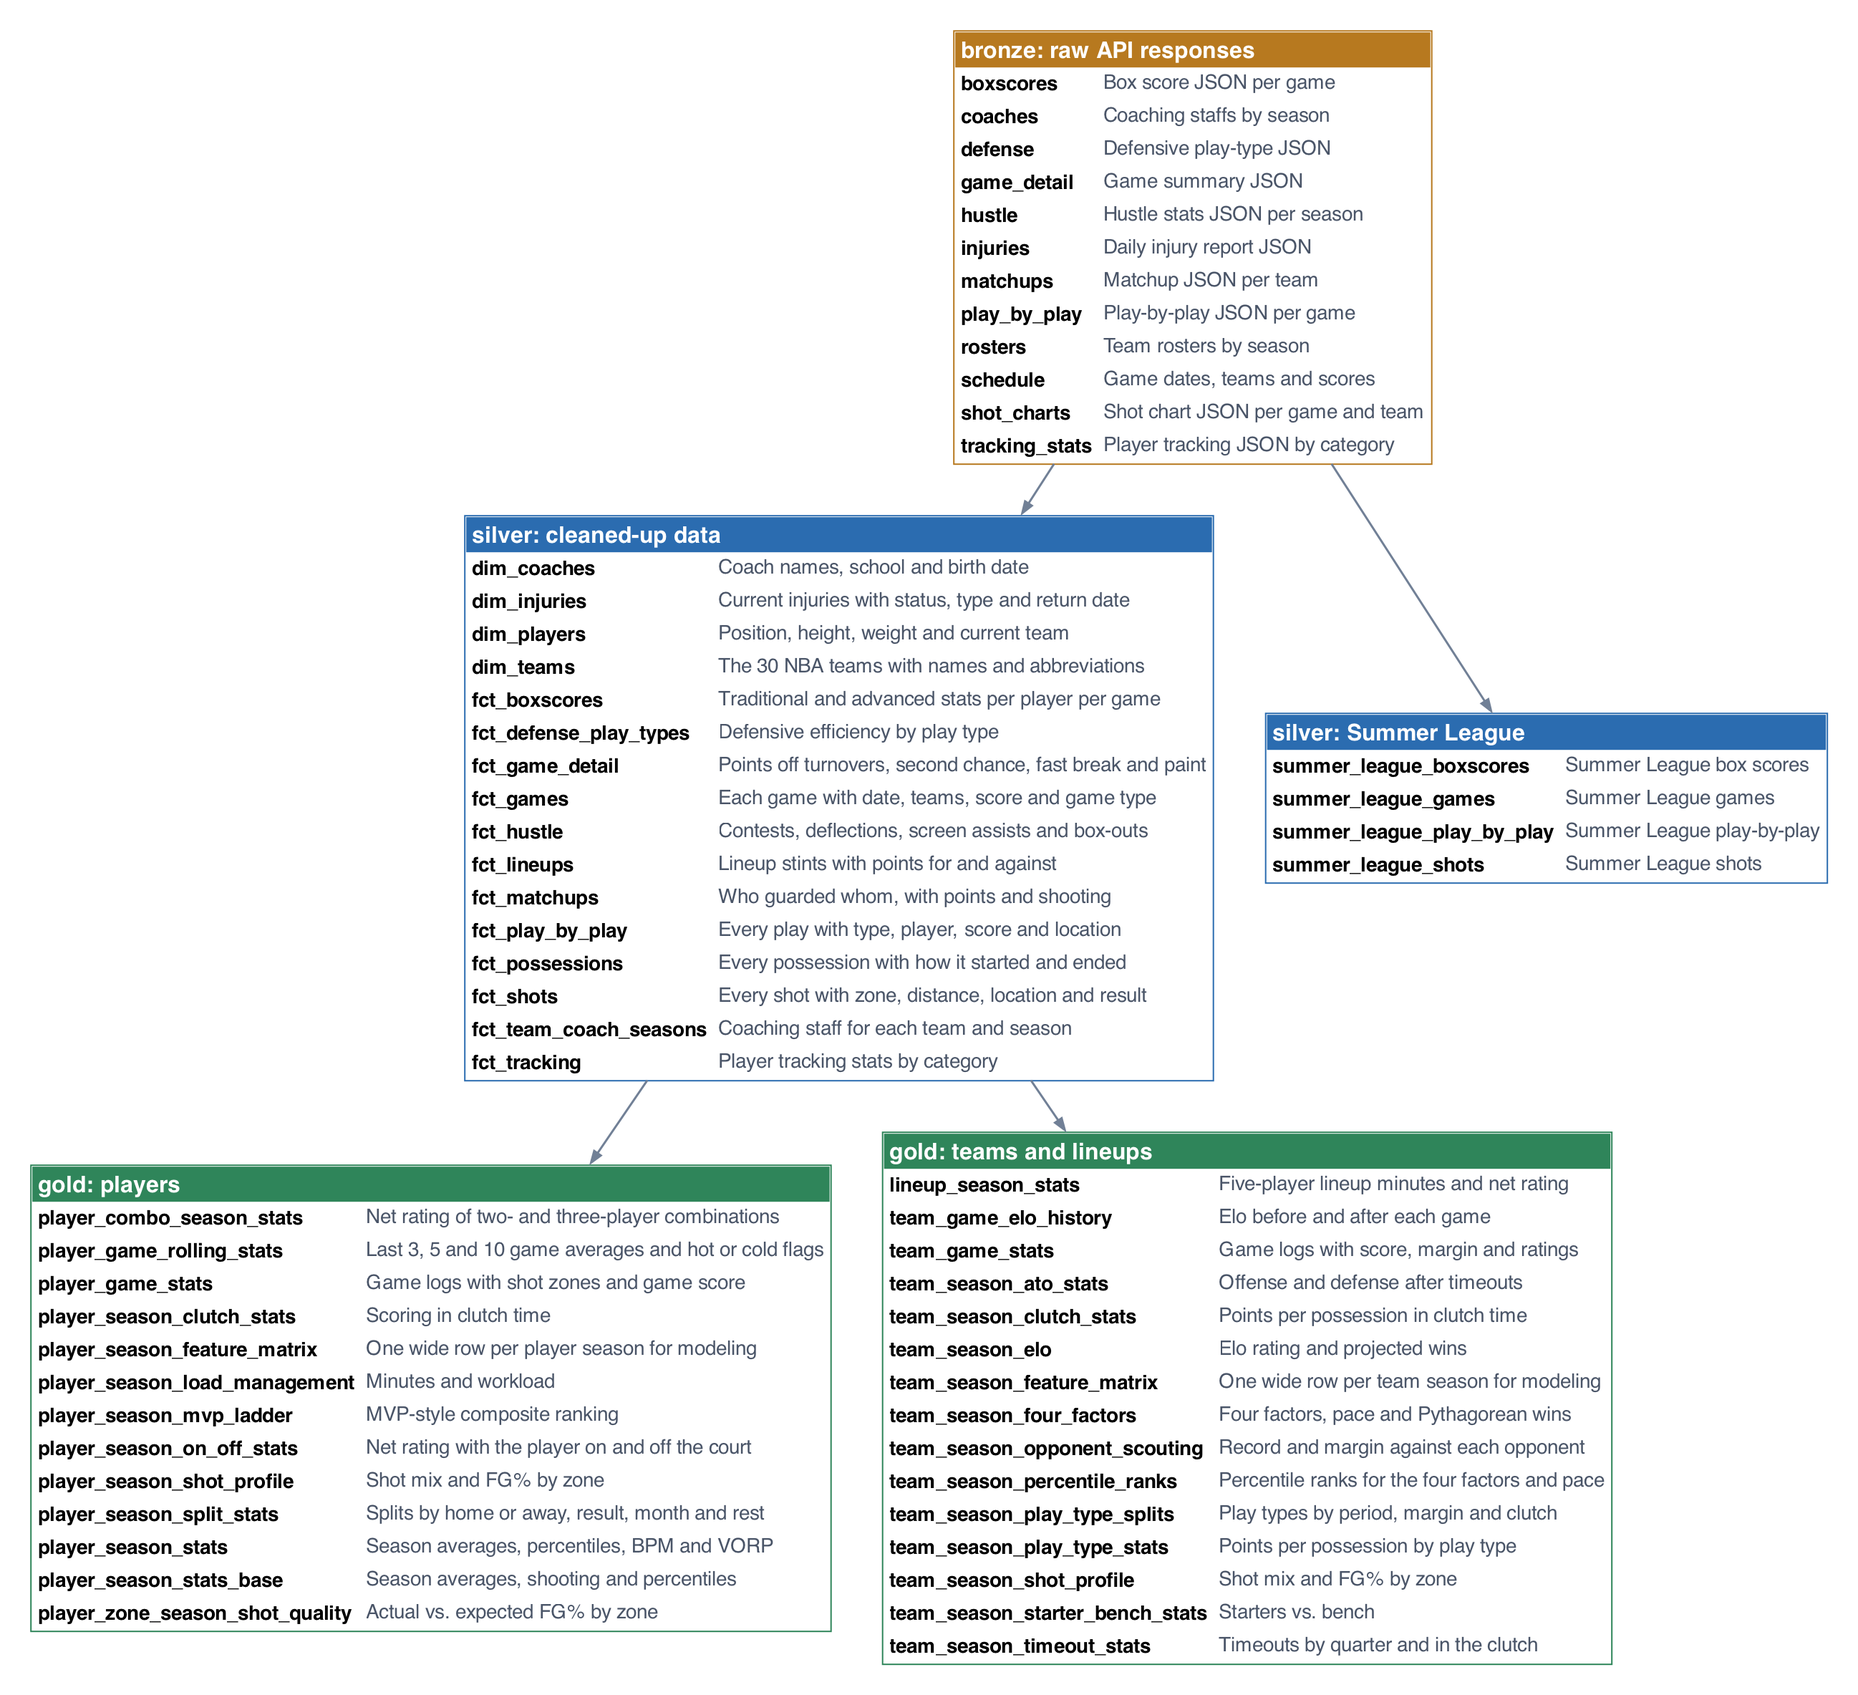
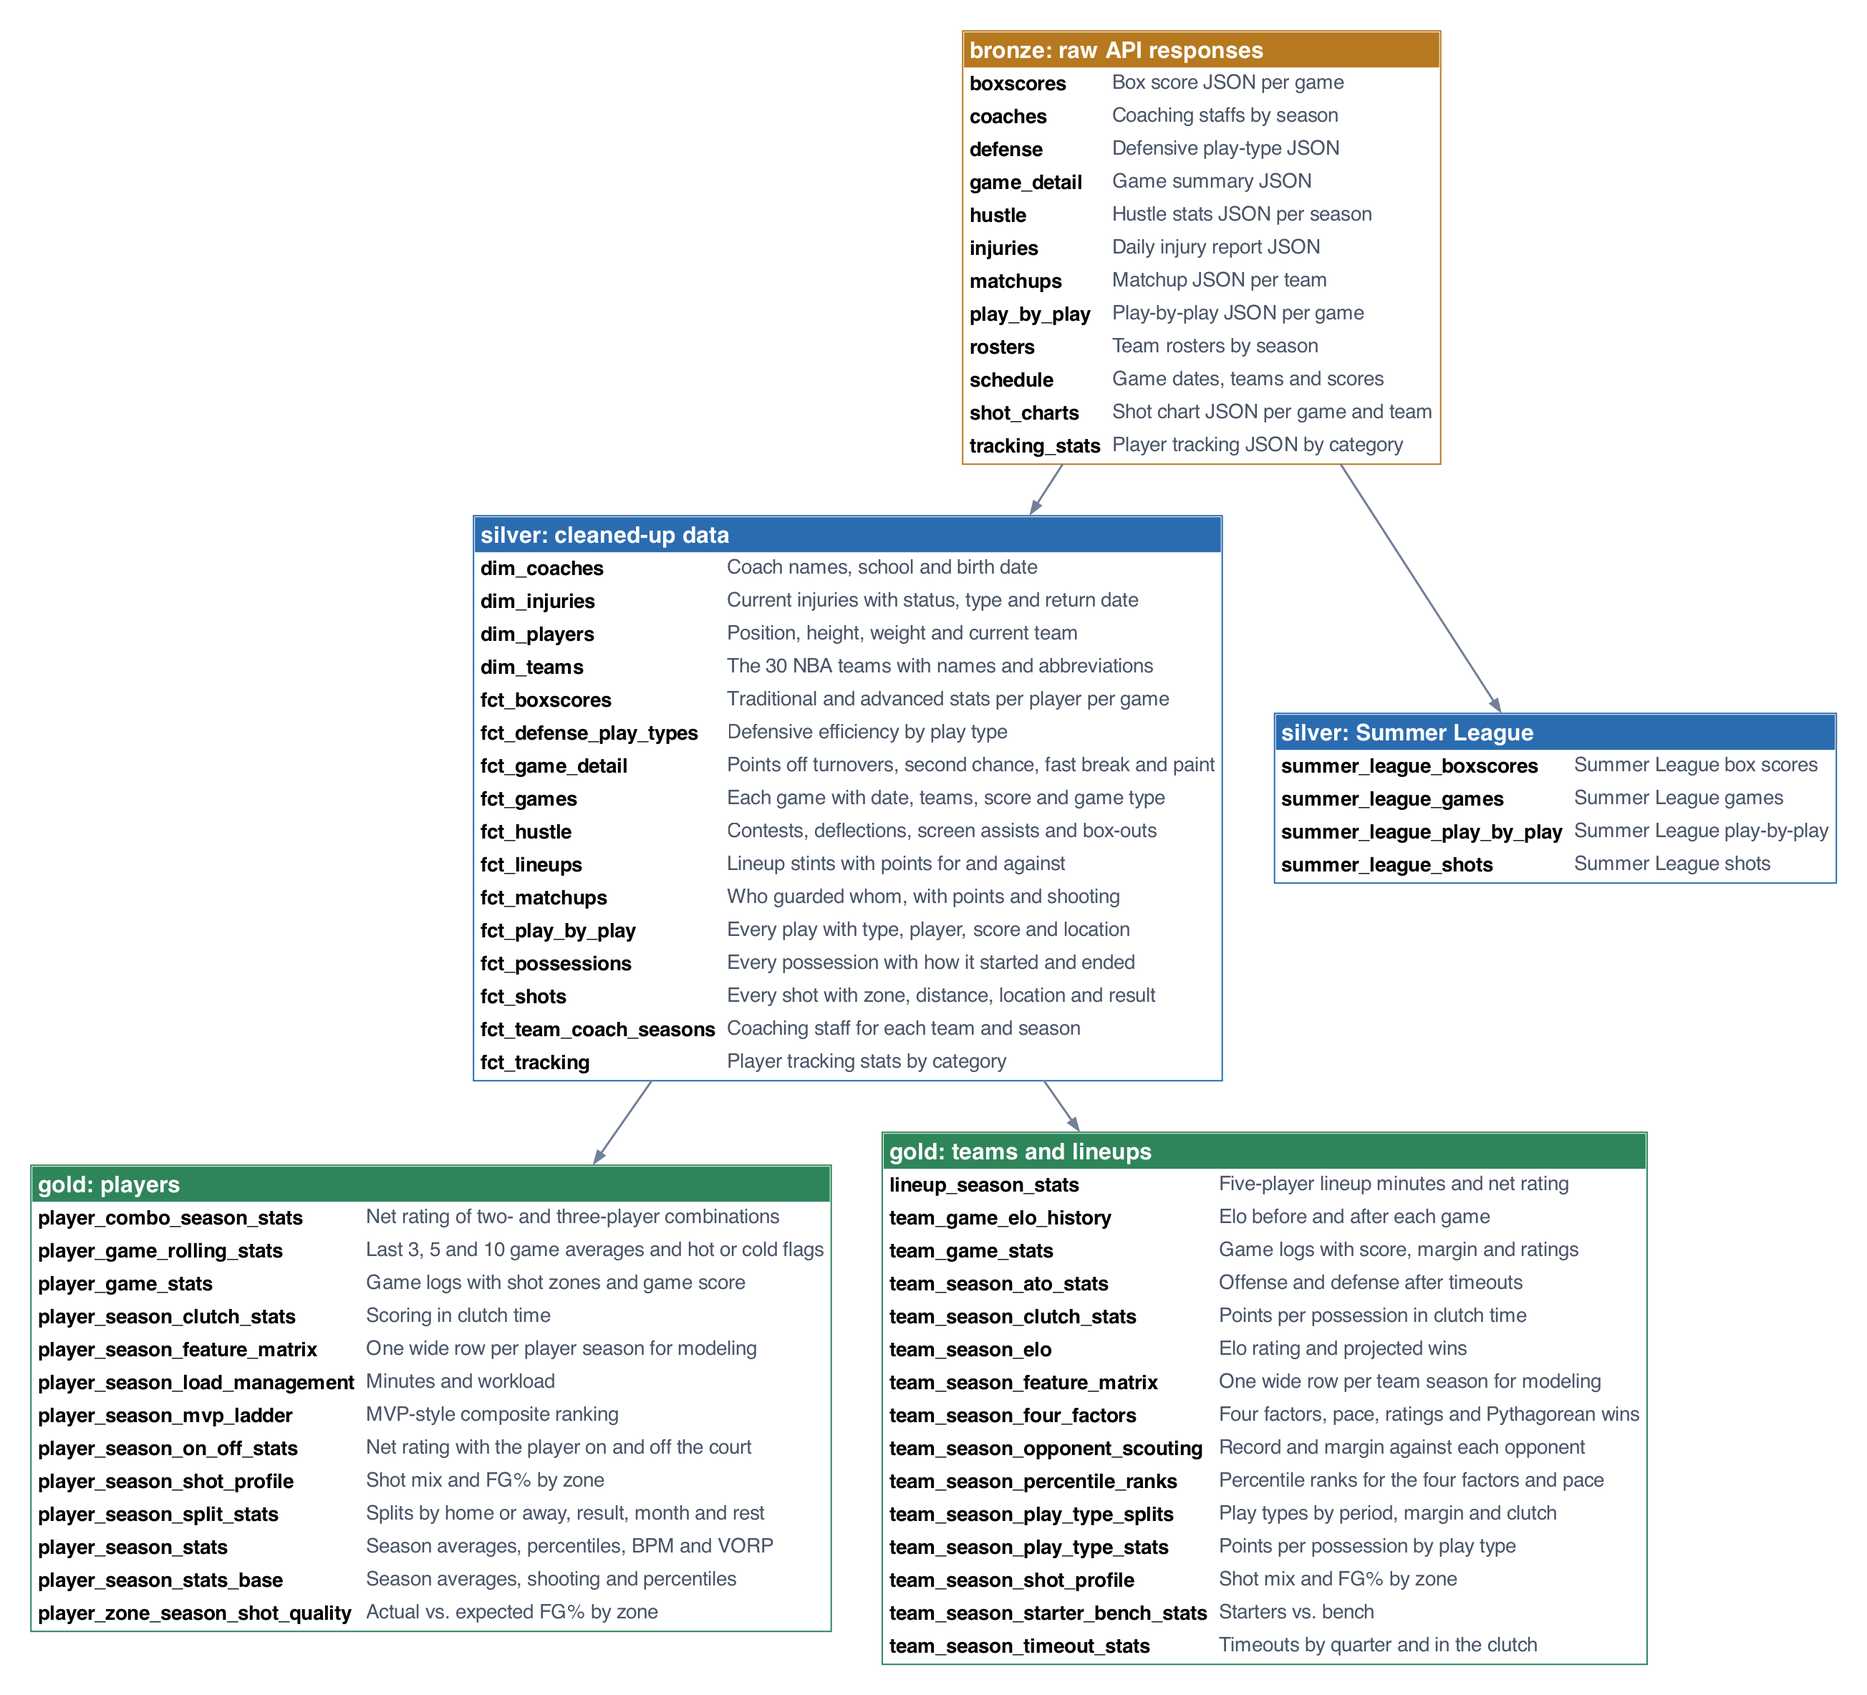
fix: compute team pace, possessions, ratings and turnovers as Basketball-Reference does
- Team turnovers are counted from play-by-play, so the ones charged to no
  player (shot clock, 8 seconds) are included.
- Possessions use Basketball-Reference's estimate averaged over both teams.
- Season pace is possessions per 48 team minutes, from season totals,
  instead of the average of player paces.
- team_season_four_factors gains off_rtg, def_rtg and net_rtg from season
  totals; adjusted player stats use that season def_rtg instead of an
  average of game ratings.
- starter_ppg and bench_ppg in the team feature matrix are points per team
  game (new pts_per_team_game column), so they add up to team ppg.

diff --git a/tests/test_transforms.py b/tests/test_transforms.py
@@ -412,82 +412,81 @@ def test_sql_player_game_stats_adds_game_score_and_shot_splits(tmp_db):
     ]
 
 
-def test_sql_team_game_stats_computes_ratings_and_margins(tmp_db):
-    from nba_duckdb import dbt_runner
+def _create_team_box_inputs(db, games):
+    """One box-score row per team and game, play-by-play turnovers, and the games.
 
-    db = tmp_db
+    `games` maps game_id to (minutes, {team_id: stats}); stats carry `player_tov`
+    (credited to players) and `team_tov` (no player, e.g. shot clock).
+    """
     db.execute(
         """
         CREATE TABLE silver.fct_boxscores (
-            game_id TEXT,
-            team_id INTEGER,
-            minutes DOUBLE,
-            pts INTEGER,
-            fga INTEGER,
-            fta INTEGER,
-            oreb INTEGER,
-            tov INTEGER
+            game_id TEXT, team_id INTEGER, minutes DOUBLE, pts INTEGER,
+            fgm INTEGER, fga INTEGER, fg3m INTEGER, ftm INTEGER, fta INTEGER,
+            oreb INTEGER, dreb INTEGER, tov INTEGER, pace DOUBLE
         )
         """
     )
-    db.execute(
-        """
-        CREATE TABLE silver.fct_games (
-            game_id TEXT,
-            season TEXT,
-            game_date TEXT,
-            game_type TEXT
-        )
-        """
-    )
-    db.insert_rows(
-        "silver",
-        "fct_boxscores",
-        [
-            {
-                "game_id": "002SYN0001",
-                "team_id": 10,
-                "minutes": 240.0,
-                "pts": 100,
-                "fga": 80,
-                "fta": 20,
-                "oreb": 10,
-                "tov": 12,
-            },
-            {
-                "game_id": "002SYN0001",
-                "team_id": 20,
-                "minutes": 240.0,
-                "pts": 90,
-                "fga": 75,
-                "fta": 15,
-                "oreb": 8,
-                "tov": 14,
-            },
-        ],
-    )
+    db.execute("CREATE TABLE silver.fct_play_by_play (game_id TEXT, team_id INTEGER, player_id INTEGER, action_type TEXT)")
+    db.execute("CREATE TABLE silver.fct_games (game_id TEXT, season TEXT, game_date TEXT, game_type TEXT)")
+    db.execute("CREATE TABLE silver.dim_teams (team_id INTEGER, abbreviation TEXT)")
+    box_rows, play_rows = [], []
+    for game_id, (minutes, teams) in games.items():
+        for team_id, stats in teams.items():
+            box_stats = {key: value for key, value in stats.items() if key not in ("player_tov", "team_tov")}
+            box_rows.append(
+                {"game_id": game_id, "team_id": team_id, "minutes": minutes, "fg3m": 0, "ftm": 0,
+                 "tov": stats["player_tov"], "pace": 1000.0, **box_stats}
+            )
+            turnover = {"game_id": game_id, "team_id": team_id, "action_type": "turnover"}
+            play_rows += [{**turnover, "player_id": 1}] * stats["player_tov"]
+            play_rows += [{**turnover, "player_id": None}] * stats["team_tov"]
+    db.insert_rows("silver", "fct_boxscores", box_rows)
+    db.insert_rows("silver", "fct_play_by_play", play_rows)
     db.insert_rows(
         "silver",
         "fct_games",
         [
-            {
-                "game_id": "002SYN0001",
-                "season": "2099-00",
-                "game_date": "01/01/2100",
-                "game_type": "regular_season",
-            }
+            {"game_id": game_id, "season": "2099-00", "game_date": "01/01/2100", "game_type": "regular_season"}
+            for game_id in games
         ],
     )
+    db.insert_rows("silver", "dim_teams", [{"team_id": 10, "abbreviation": "AAA"}, {"team_id": 20, "abbreviation": "BBB"}])
+
+
+_REGULATION_GAME = (
+    240.0,
+    {
+        10: {"pts": 100, "fgm": 36, "fga": 80, "fta": 20, "oreb": 10, "dreb": 30, "player_tov": 12, "team_tov": 1},
+        20: {"pts": 90, "fgm": 33, "fga": 75, "fta": 15, "oreb": 8, "dreb": 32, "player_tov": 14, "team_tov": 0},
+    },
+)
+_OVERTIME_GAME = (
+    265.0,
+    {
+        10: {"pts": 120, "fgm": 44, "fga": 95, "fta": 25, "oreb": 12, "dreb": 38, "player_tov": 14, "team_tov": 1},
+        20: {"pts": 115, "fgm": 42, "fga": 92, "fta": 22, "oreb": 11, "dreb": 36, "player_tov": 16, "team_tov": 0},
+    },
+)
+
+
+def test_sql_team_game_stats_computes_ratings_and_margins(tmp_db):
+    from nba_duckdb import dbt_runner
+
+    db = tmp_db
+    _create_team_box_inputs(db, {"002SYN0001": _REGULATION_GAME})
 
     result = dbt_runner.run_model(model="team_game_stats")
     rows = db.execute_sql(
         """
-        SELECT team_id, pts, opp_pts, margin, is_win, off_rtg, def_rtg, net_rtg
+        SELECT team_id, pts, opp_pts, margin, is_win, tov, off_rtg, def_rtg, net_rtg
         FROM gold.team_game_stats
         ORDER BY team_id
         """
     )
 
+    # Basketball-Reference's possession estimate (87.66 for both teams), with
+    # team 10's shot-clock turnover that has no player counted.
     assert result["rows_written"] == 2
     assert rows == [
         {
@@ -496,9 +495,10 @@ def test_sql_team_game_stats_computes_ratings_and_margins(tmp_db):
             "opp_pts": 90,
             "margin": 10,
             "is_win": True,
-            "off_rtg": 110.1,
+            "tov": 13,
+            "off_rtg": 114.1,
             "def_rtg": 102.7,
-            "net_rtg": 7.4,
+            "net_rtg": 11.4,
         },
         {
             "team_id": 20,
@@ -506,10 +506,76 @@ def test_sql_team_game_stats_computes_ratings_and_margins(tmp_db):
             "opp_pts": 100,
             "margin": -10,
             "is_win": False,
+            "tov": 14,
             "off_rtg": 102.7,
-            "def_rtg": 110.1,
-            "net_rtg": -7.4,
+            "def_rtg": 114.1,
+            "net_rtg": -11.4,
         },
+    ]
+
+
+def test_four_factors_use_season_possessions_team_minutes_and_team_turnovers(tmp_db):
+    from nba_duckdb import dbt_runner
+
+    db = tmp_db
+    _create_team_box_inputs(db, {"002SYN0001": _REGULATION_GAME, "002SYN0002": _OVERTIME_GAME})
+
+    dbt_runner.run_model(model="team_game_stats")
+    dbt_runner.run_model(model="team_season_four_factors")
+    row = db.execute_sql(
+        """
+        SELECT pace, off_rtg, def_rtg, net_rtg, off_tov_pct, def_tov_pct, tov_per_game
+        FROM gold.team_season_four_factors
+        WHERE team_id = 10
+        """
+    )[0]
+
+    # 193.23 possessions from season totals over 505 team minutes (one overtime
+    # game): pace = 48 * 193.23 / (505 / 5); ratings are per 100 of them.
+    assert {key: float(value) for key, value in row.items()} == {
+        "pace": 91.8,
+        "off_rtg": 113.9,
+        "def_rtg": 106.1,
+        "net_rtg": 7.8,
+        "off_tov_pct": 12.6,
+        "def_tov_pct": 14.1,
+        "tov_per_game": 14.0,
+    }
+
+
+def test_starter_and_bench_points_per_team_game_add_up_to_team_ppg(tmp_db):
+    from nba_duckdb import dbt_runner
+
+    db = tmp_db
+    # Two games: five starters with 20 points each; three bench players with
+    # 10 each in game 1, one with 4 in game 2. Team ppg is (130 + 104) / 2 = 117.
+    db.execute(
+        """
+        CREATE TABLE silver.fct_boxscores AS
+        SELECT game_id, 10 AS team_id, started, 20.0 AS minutes, pts,
+               0 AS reb, 0 AS ast, 0 AS fgm, 0 AS fga, 0 AS fta, 0 AS plus_minus
+        FROM (VALUES ('0029900001', TRUE, 20), ('0029900002', TRUE, 20),
+                     ('0029900001', FALSE, 10), ('0029900002', FALSE, 4)) AS t(game_id, started, pts),
+             (VALUES (1), (2), (3), (4), (5)) AS players(n)
+        WHERE started OR n <= CASE WHEN game_id = '0029900001' THEN 3 ELSE 1 END
+        """
+    )
+    db.execute(
+        """
+        CREATE TABLE silver.fct_games AS
+        SELECT * FROM (VALUES ('0029900001', '2099-00', 'regular_season'),
+                              ('0029900002', '2099-00', 'regular_season')) AS t(game_id, season, game_type)
+        """
+    )
+
+    dbt_runner.run_model(model="team_season_starter_bench_stats")
+    rows = db.execute_sql(
+        "SELECT role, ppg, pts_per_team_game FROM gold.team_season_starter_bench_stats ORDER BY role"
+    )
+
+    assert [(row["role"], float(row["ppg"]), float(row["pts_per_team_game"])) for row in rows] == [
+        ("bench", 8.5, 17.0),
+        ("starter", 20.0, 100.0),
     ]
 
 
@@ -555,7 +621,7 @@ def test_adjusted_stats_uses_opponent_defense_from_the_same_season():
         "away_team_id": [2, 2],
         "season": ["2025-26", "2026-27"],
     })
-    team_log = pl.DataFrame({
+    team_ratings = pl.DataFrame({
         "team_id": [2, 2],
         "season": ["2025-26", "2026-27"],
         "def_rtg": [100.0, 120.0],
@@ -573,7 +639,7 @@ def test_adjusted_stats_uses_opponent_defense_from_the_same_season():
     })
 
     adjusted, league_avg = build_adjusted_stats(
-        player_games=player_games, team_log=team_log, fct_games=games
+        player_games=player_games, team_ratings=team_ratings, fct_games=games
     )
 
     by_season = dict(adjusted.select(["season", "adj_ppg"]).iter_rows())
@@ -585,14 +651,14 @@ def test_adjusted_net_rating_weights_games_by_minutes():
     from nba_duckdb.transforms.gold.adjusted_stats import build_adjusted_stats
 
     games = pl.DataFrame({"game_id": ["g1", "g2"], "home_team_id": [1, 1], "away_team_id": [2, 2], "season": ["2025-26"] * 2})
-    team_log = pl.DataFrame({"team_id": [2], "season": ["2025-26"], "def_rtg": [110.0]})
+    team_ratings = pl.DataFrame({"team_id": [2], "season": ["2025-26"], "def_rtg": [110.0]})
     # A full game at +10 and a two-minute stint at -50.
     player_games = pl.DataFrame({
         "player_id": [7, 7], "game_id": ["g1", "g2"], "team_id": [1, 1], "minutes": [30.0, 2.0],
         "pts": [20.0, 0.0], "fga": [15, 0], "fta": [4, 0], "ts_pct": [0.6, None], "net_rating": [10.0, -50.0],
     })
 
-    adjusted, _ = build_adjusted_stats(player_games=player_games, team_log=team_log, fct_games=games)
+    adjusted, _ = build_adjusted_stats(player_games=player_games, team_ratings=team_ratings, fct_games=games)
 
     assert adjusted["adj_net_rtg"][0] == round((10.0 * 30 - 50.0 * 2) / 32, 1)
     assert adjusted["adj_ts_pct"][0] == 0.6

diff --git a/tests/test_analytics_validity.py b/tests/test_analytics_validity.py
@@ -345,7 +345,8 @@ def _create_team_feature_matrix_inputs(db):
             team_id INTEGER,
             season TEXT,
             role TEXT,
-            ppg REAL
+            ppg REAL,
+            pts_per_team_game REAL
         )
         """
     )
@@ -792,8 +793,8 @@ def test_team_season_feature_matrix_grain_and_core_inputs(tmp_db):
         "gold",
         "team_season_starter_bench_stats",
         [
-            {"team_id": 100, "season": "2099-00", "role": "Starter", "ppg": 70.0},
-            {"team_id": 100, "season": "2099-00", "role": "Bench", "ppg": 35.0},
+            {"team_id": 100, "season": "2099-00", "role": "Starter", "ppg": 14.0, "pts_per_team_game": 70.0},
+            {"team_id": 100, "season": "2099-00", "role": "Bench", "ppg": 8.0, "pts_per_team_game": 40.0},
         ],
     )
     db.insert_rows(
@@ -814,8 +815,10 @@ def test_team_season_feature_matrix_grain_and_core_inputs(tmp_db):
     assert row["l5_losses"] == 1
     assert row["l5_avg_margin"] == pytest.approx(3.0)
     assert (row["paint_freq"], row["three_freq"], row["mid_freq"]) == pytest.approx((45.0, 35.0, 20.0))
+    # Points per team game, not per player appearance, so they add up to the team's ppg.
     assert row["starter_ppg"] == pytest.approx(70.0)
-    assert row["bench_ppg"] == pytest.approx(35.0)
+    assert row["bench_ppg"] == pytest.approx(40.0)
+    assert row["starter_ppg"] + row["bench_ppg"] == pytest.approx(row["ppg"])
     assert row["clutch_ppp"] == pytest.approx(1.12)
     assert db.execute(
         """

diff --git a/src/nba_duckdb/transforms/gold/adjusted_stats.py b/src/nba_duckdb/transforms/gold/adjusted_stats.py
@@ -20,21 +20,21 @@ def empty_adjusted_stats() -> pl.DataFrame:
 def build_adjusted_stats(
     *,
     player_games: pl.DataFrame,
-    team_log: pl.DataFrame,
+    team_ratings: pl.DataFrame,
     fct_games: pl.DataFrame,
 ) -> tuple[pl.DataFrame, float]:
-    if player_games.is_empty() or team_log.is_empty() or fct_games.is_empty():
+    """`team_ratings` has one row per team-season with its season `def_rtg`."""
+    if player_games.is_empty() or team_ratings.is_empty() or fct_games.is_empty():
         return empty_adjusted_stats(), _LEAGUE_AVG_DEF_RTG
 
-    valid_rtg = team_log.filter(pl.col("def_rtg").is_not_null() & (pl.col("def_rtg") > 80))
+    valid_rtg = team_ratings.filter(pl.col("def_rtg").is_not_null() & (pl.col("def_rtg") > 80))
     league_avg = valid_rtg["def_rtg"].mean() if not valid_rtg.is_empty() else _LEAGUE_AVG_DEF_RTG
 
     games_slim = fct_games.select(["game_id", "home_team_id", "away_team_id", "season"])
     team_def_rtg = (
-        team_log
+        team_ratings
         .filter(pl.col("def_rtg").is_not_null())
-        .group_by(["team_id", "season"])
-        .agg(pl.col("def_rtg").mean().alias("season_def_rtg"))
+        .select(["team_id", "season", pl.col("def_rtg").alias("season_def_rtg")])
     )
 
     pgs = player_games.join(games_slim, on="game_id", how="left")

diff --git a/dbt/models/gold/player_season_stats.py b/dbt/models/gold/player_season_stats.py
@@ -6,13 +6,11 @@ def model(dbt, session):
     dbt.config(materialized="table", schema="gold", tags=["gold"])
     base = dbt.ref("player_season_stats_base")
     player_games = dbt.ref("player_game_stats")
-    team_games = dbt.ref("team_game_stats")
     games = dbt.ref("fct_games")
     four_factors = dbt.ref("team_season_four_factors")
     return build_player_season_stats_frame(
         base=relation_to_polars(base),
         player_games=relation_to_polars(player_games),
-        team_games=relation_to_polars(team_games),
         games=relation_to_polars(games),
         four_factors=relation_to_polars(four_factors),
     )

diff --git a/src/nba_duckdb/transforms/gold/player_season_stats.py b/src/nba_duckdb/transforms/gold/player_season_stats.py
@@ -12,13 +12,12 @@ def build_player_season_stats_frame(
     *,
     base: pl.DataFrame,
     player_games: pl.DataFrame,
-    team_games: pl.DataFrame,
     games: pl.DataFrame,
     four_factors: pl.DataFrame,
 ) -> pl.DataFrame:
     adjusted, _league_avg_def_rtg = build_adjusted_stats(
         player_games=player_games,
-        team_log=team_games,
+        team_ratings=four_factors,
         fct_games=games,
     )
     bpm_vorp, _league_avg_pace = build_bpm_vorp(
